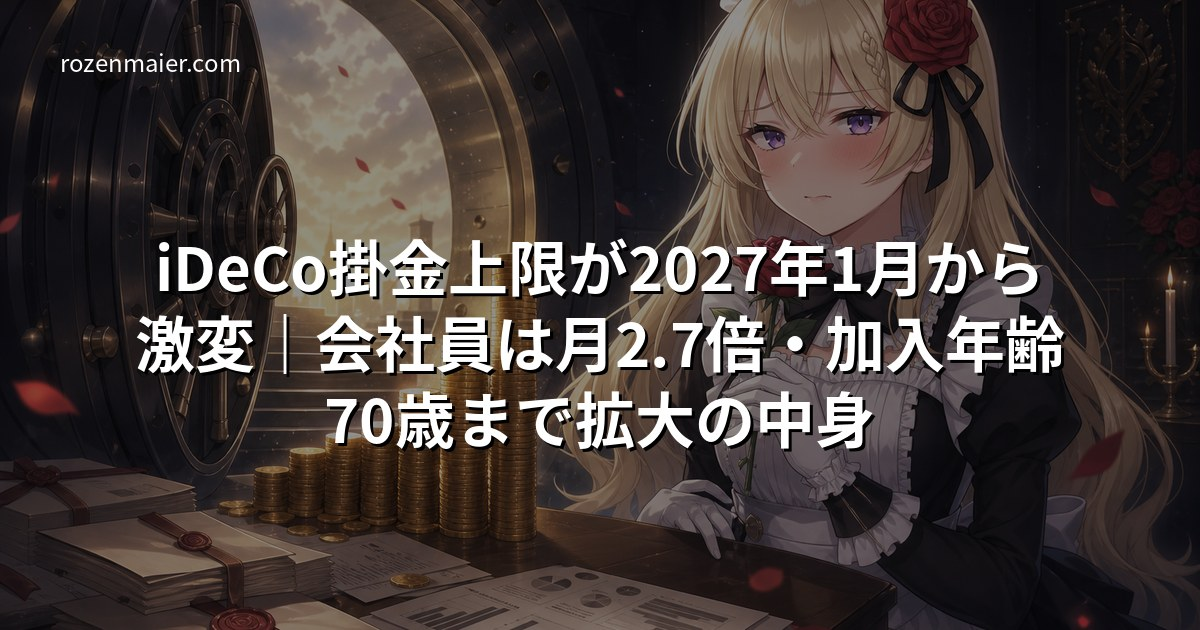
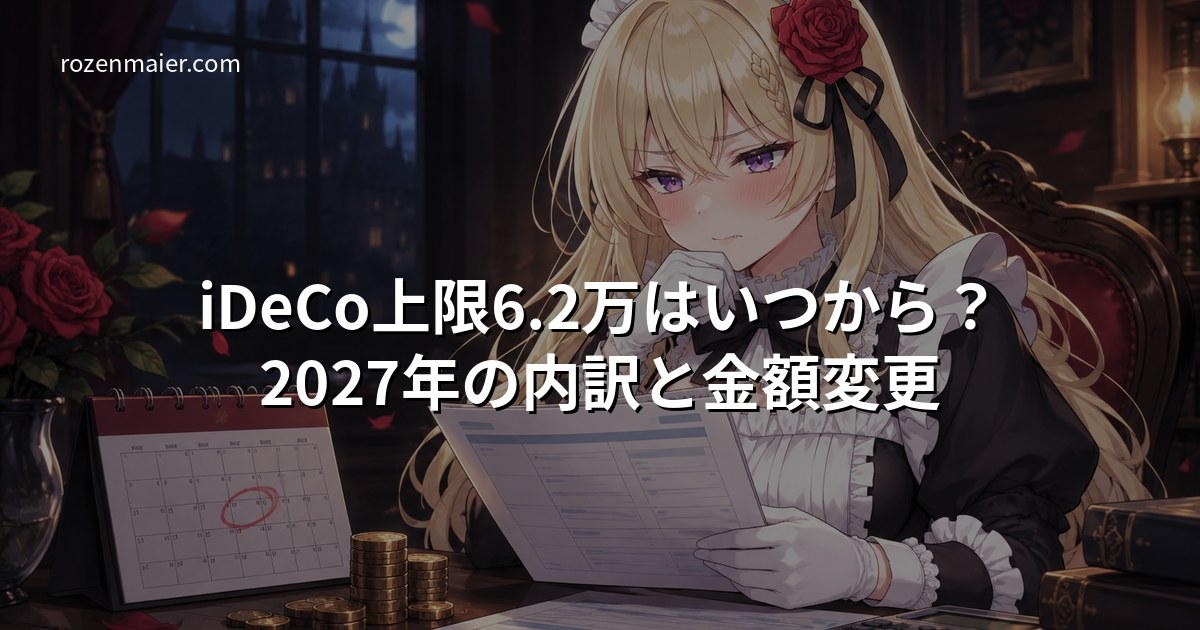
rewrite(seo): iDeCo 2027年改正記事を「いつから・6.2万の内訳・金額変更手続き」の検索意図へ作り直す
SC 46表示/5.9位/0クリック。Bingクエリは「イデコ掛け金上限改正いつから」「2027年 ideco 上限 6.2万の内訳」
「マネックス証券 ideco 2027年 金額変更」「ideco改正 2027 第3号」など、時期・内訳・手続きを求めるものだったが、
記事は制度紹介中心で答えていなかった。
- 冒頭に結論（2026/12/1施行・12月分=2027年1月引落から、自動では増えない）
- 区分別上限を厚労省リーフ・国基連案内・楽天証券表で取り直し（公務員5.4万、私学5.5万、付加年金7.4万、2万頭打ち撤廃）
- 第3号を「引き上げ予定」としていた誤りを訂正（据え置き2.3万）
- 6.2万の内訳と計算例、事前受付の4条件、e-iDeCo 12/1〜24、月別指定の扱い
- 第5号加入者の要件と2029年11月末までの経過措置、控除が2027年分になる点
- タイトル変更・サムネ再生成

diff --git a/content/posts/2026-08-18-ideco-2027-contribution-limit-reform-guide.md b/content/posts/2026-08-18-ideco-2027-contribution-limit-reform-guide.md
@@ -1,93 +1,229 @@
 ---
-title: "iDeCo掛金上限が2027年1月から激変｜会社員は月2.7倍・加入年齢70歳まで拡大の中身"
+title: "iDeCo上限6.2万はいつから？2027年の内訳と金額変更"
 date: 2026-08-18
+lastmod: 2026-10-06
 draft: false
 tags: ["iDeCo", "老後資金・FIRE"]
 categories: ["NISA・iDeCo"]
-description: "iDeCoの掛金拠出限度額が2027年1月から大きく変わります。会社員の上限が月2.3万円から6.2万円へ引き上げられる改正の中身、自営業者・専業主婦の変更点、加入可能年齢70歳までの拡大、今から準備しておくべきことを整理します。"
+description: "iDeCoの掛金上限は2026年12月分（2027年1月引き落とし分）から会社員月6.2万円・自営業者7.5万円へ。企業年金がある人の内訳の計算、第3号は据え置き、自動では上がらない金額変更の手続き（事前受付・e-iDeCo 12/1〜24）を厚労省資料で整理しますわ。"
 featureimage: "https://rozenmaier.com/img/thumbnails/2026-08-18-ideco-2027-contribution-limit-reform-guide.jpg"
 featureimagecaption: "Photo by rozenmaier.com"
 ---
 
-「iDeCoの掛金って、月2.3万円が上限でしょ？」——会社員の方からよくそう聞きますけれど、その常識、2027年1月には過去のものになりますわ。
+「iDeCoの上限が6.2万円に上がるって聞いたけれど、いつから？　何もしなくても上がるの？」——結論から申し上げますわね。
 
-国民年金基金連合会が運営する「iDeCo公式サイト」では、2026年8月17日付で「拠出限度額の見直しに伴う掛金額変更」の案内が正式に出されています。施行は2026年12月1日、実際の掛金反映は2027年1月引き落とし分からの予定です。特に会社員（企業年金なし）の上限は月2.3万円から6.2万円へと、実に約2.7倍に引き上げられます。今日はこの改正の中身と、今から準備すべきことを整理しますわ。
+- **いつから:** 2026年12月1日施行。掛金でいうと **2026年12月分（2027年1月引き落とし分）** から
+- **いくらに:** 会社員・公務員（第2号）は **月6.2万円** が上限、自営業者（第1号）は **月7.5万円**
+- **ただし6.2万円は「企業年金と合計した上限」:** 企業型DCやDBがある会社員は、そこから会社の掛金分を差し引いた額がiDeCoの枠
+- **専業主婦・主夫（第3号）は上がらない:** 月2.3万円のまま
+- **自動では増えない:** 増額したい人は自分で掛金額変更の手続きが必要
 
----
-
-## 何が変わるのか——被保険者区分ごとの上限額
-
-まず全体像を表で押さえておきましょう。
-
-| 被保険者区分 | 現行の月額上限 | 改正後の月額上限（2027年1月〜予定） |
-|---|---|---|
-| 第1号被保険者（自営業者・フリーランス） | 68,000円 | 75,000円 |
-| 第2号被保険者（会社員・企業年金なし） | 23,000円 | 62,000円 |
-| 第2号被保険者（会社員・企業年金あり） | 12,000円〜20,000円 | 「62,000円－企業年金の掛金額」 |
-| 第3号被保険者（専業主婦・主夫など） | 23,000円 | 上乗せで引き上げ予定 |
-
-インパクトが最も大きいのは、企業年金のない会社員です。現行の月23,000円（年間276,000円）から月62,000円（年間744,000円）へと、年間で約47万円も非課税で拠出できる枠が広がる計算になります。
-
-企業年金（DB・企業型DCなど）がある会社員は、「62,000円から会社の企業年金掛金額を差し引いた額」がiDeCoの上限になる見込みです。会社の掛金額によって個人差が出るため、正確な上限は勤務先の企業年金担当部署や証券会社に確認するのが確実ですわ。
-
-⚠ この情報は2026年8月17日時点でiDeCo公式サイトが公表した案内・複数の証券会社の解説をもとに整理したものです。細部は今後の正式な制度施行までに変更される可能性があるため、掛金変更の手続きを行う際は必ずご自身の加入区分に応じた最新の公式案内を確認してください。
+この記事は、厚生労働省のリーフレット「iDeCoの拠出限度額と加入可能年齢が引き上げられます。」と、国民年金基金連合会（iDeCo公式サイト）の「掛金額変更をご希望の方へ、お手続きのご案内」（2026年8月）を一次資料にして整理していますわ。
 
 ---
 
-## 加入可能年齢も70歳まで拡大
+## いつから変わる？　「2026年12月施行」と「2027年1月」の関係
 
-上限額の引き上げと同時に、iDeCoに加入できる年齢の上限も広がります。
+ニュースによって「2026年12月から」と書かれていたり「2027年1月から」と書かれていたりして、混乱しやすいところですの。両方とも正しくて、指しているものが違うだけですわ。
 
-| 項目 | 現行 | 改正後（2027年1月〜予定） |
+| 項目 | 日付 |
+|---|---|
+| 改正法の施行日 | 2026年12月1日 |
+| 新しい上限が適用される最初の掛金 | 2026年12月分 |
+| その掛金が口座から引き落とされる日 | 2027年1月（毎月26日、休日なら翌営業日） |
+| 事前受付（紙の専用届出書） | 2026年9月頃から（運営管理機関ごとに異なる） |
+| e-iDeCoでのオンライン変更 | 2026年12月1日（火）〜12月24日（木） |
+
+iDeCoの掛金は「その月の分を翌月26日に引き落とす」仕組みなので、**12月分＝1月引き落とし**になりますの。ですから「2027年1月から上限が上がる」と書いてある記事は、引き落としの月で数えているだけですわ。
+
+ひとつ実務上のポイントがあります。所得控除（小規模企業共済等掛金控除）は **実際に引き落とされた年** で計算されますの。2026年12月分の増額した掛金は2027年1月に引き落とされるので、**節税効果が出るのは2027年分の所得税・2028年度の住民税から** になりますわ。2026年の年末調整には増額分は乗りませんので、ご注意くださいまし。年末調整での書き方は[iDeCoの年末調整はここでつまずく｜控除証明書はいつ届く？令和8年分から変わる添付ルール](/posts/2026-09-12-ideco-year-end-adjustment-2026-guide/)で詳しく解説しています。
+
+---
+
+## 加入区分ごとの上限一覧（現行 → 改正後）
+
+まずは全体像ですわ。厚生労働省資料と、運営管理機関である楽天証券の制度改正ページの表で突き合わせました。
+
+| 加入区分 | 現行の月額上限 | 2026年12月分からの月額上限 |
 |---|---|---|
-| 第1号・第3号被保険者の加入上限 | 原則60歳まで（任意加入で最長65歳） | 70歳未満まで |
-| 第2号被保険者（厚生年金加入者）の加入上限 | 65歳まで | 70歳未満まで |
+| 第1号（自営業者・フリーランス・学生） | 68,000円（国民年金基金と合算） | **75,000円**（国民年金基金と合算） |
+| 第2号・企業年金なし（厚生年金のみ） | 23,000円 | **62,000円** |
+| 第2号・企業型DCやDBあり | 55,000円－会社の掛金分（最大20,000円） | **62,000円－会社の掛金分**（20,000円の頭打ちは撤廃） |
+| 第2号・国家公務員／地方公務員 | 20,000円 | **54,000円**（62,000円－共済掛金相当額8,000円） |
+| 第2号・私立学校教職員（私学共済のみ） | 20,000円 | **55,000円**（62,000円－7,000円） |
+| 第3号（会社員・公務員の被扶養配偶者） | 23,000円 | **23,000円（据え置き）** |
+| 第4号（任意加入被保険者） | 68,000円 | **75,000円** |
+| 第5号（60〜70歳未満の国民年金被保険者以外）【新設】 | ― | **62,000円**（企業年金等があれば合算で6.2万円） |
 
-改正後は被保険者の種別を問わず70歳未満まで加入できるようになり、新たに「第5号加入者」という区分が設けられる見込みです。60代でまとまった収入がある方や、定年後も再雇用で働き続ける方にとっては、非課税で積み立てられる期間そのものが5〜10年延びる計算になりますわ。iDeCoは受け取り方によって税負担が大きく変わる制度でもあるため、拠出期間が延びる今のうちに出口戦略まで見据えておくと安心です。詳しくは[iDeCo受け取り方戦略：一時金・年金・併用で税負担はここまで変わる](/posts/2026-06-16-ideco-payout-strategy-tax-optimization/)で解説していますわ。
+国民年金基金連合会の案内には、はっきりと「第3号被保険者は拠出限度額の引き上げはないので対象となりません」と書かれていますわ。この記事の旧版では第3号も「上乗せで引き上げ予定」と書いておりましたが、誤りでしたので訂正いたします。
+
+掛金は **1,000円単位**（千円未満は切り捨て）、下限は月5,000円のままです。
+
+---
+
+## 会社員の「6.2万円」の内訳——企業年金がある人はいくらまで？
+
+検索でいちばん多いのが「6.2万の内訳」「会社員はいくら積めるの？」という疑問ですわ。ポイントは、**6.2万円はiDeCo単独の上限ではなく「企業年金とiDeCoを合わせた上限」** だということ。
+
+計算式はこうなりますの。
+
+> iDeCoの上限 ＝ 62,000円 －（企業型DCの事業主掛金 ＋ DB等の他制度掛金相当額）
+> ※1,000円未満切り捨て
+
+### 計算例
+
+| ケース | 会社の掛金 | iDeCoの上限（改正後） | 現行 |
+|---|---|---|---|
+| 企業年金なし | 0円 | 62,000円 | 23,000円 |
+| 企業型DCの事業主掛金 月20,000円 | 20,000円 | 42,000円 | 20,000円 |
+| 企業型DCの事業主掛金 月35,000円 | 35,000円 | 27,000円 | 20,000円 |
+| DBの他制度掛金相当額 月15,000円＋企業型DC 月10,000円 | 25,000円 | 37,000円 | 20,000円 |
+| 国家公務員・地方公務員 | 8,000円（共済掛金相当額） | 54,000円 | 20,000円 |
+
+現行制度では、企業年金がある会社員は計算上の枠がいくら残っていても **最大20,000円** で頭打ちでしたわ。改正後はこの上限が外れるので、会社の掛金が少ない人ほど大きく枠が広がりますの。
+
+「会社員だけど2027年から毎月3万円積めますか？」という疑問には、**企業年金がない人なら積めます。企業年金がある人は、会社の掛金が月3.2万円以下なら積めます** とお答えできますわ。
+
+### 会社の掛金はどこで確認する？
+
+厚生労働省の資料では、確認先を次のように案内しています。
+
+- **企業型DCの事業主掛金** … 加入中の企業型DCの記録関連運営管理機関（RK）の加入者専用サイト
+- **DBの他制度掛金相当額** … 勤務先に確認（複数のDBに入っている場合は合算）
+- **公務員** … 共済掛金相当額は一律月8,000円
+- **私学共済** … 月7,000円
+
+ねんきん定期便には企業年金の掛金は載っていませんの。勤務先の人事・総務か、企業型DCの加入者サイトで確認するのが確実ですわ。
+
+---
+
+## 自営業者の「7.5万円」の内訳——国民年金基金・付加年金と合算
+
+第1号（自営業者・フリーランス）は68,000円から75,000円へ、7,000円の引き上げですわ。こちらも **国民年金基金や付加年金と合わせた上限** です。
+
+| 加入状況 | iDeCoの上限（改正後） |
+|---|---|
+| 国民年金基金・付加保険料のどちらも払っていない | 75,000円 |
+| 付加保険料（月400円）を納付している | 74,000円 |
+| 国民年金基金に加入している | 75,000円－国民年金基金の掛金額 |
+
+付加保険料は月400円ですが、掛金が1,000円単位なので枠は1,000円減って74,000円になりますの。地味ですが見落としやすいところですわ。
+
+会社員に比べて引き上げ幅が小さいのは、自営業者にはもともと国民年金基金など上乗せの選択肢があり、上限も高めに設定されていたからですわ。今回の改正は「企業年金のない会社員が、自営業者と比べて老後の上乗せを積みにくい」という差を縮める方向のものと読めます。
 
 ![電卓と資産運用の資料を前に考える女性のイメージ](/img/body/2026-08-18-ideco-2027-contribution-limit-reform-guide-1.jpg)
 
 ---
 
-## なぜ会社員だけこんなに大きく変わるのか
+## 専業主婦・主夫（第3号）は上限据え置き
 
-「なぜ自営業者は7,000円増なのに、会社員は3.9万円も増えるの？」と疑問に思う方もいるでしょう。
+「第3号も上がるの？」という検索も来ていますので、ここははっきり書いておきますわ。
 
-これは制度設計の歪みを是正する動きと理解すると分かりやすいですわ。もともとiDeCoの上限額は「公的年金＋企業年金でどれだけ老後保障を受けられるか」に応じて決められています。厚生年金に加えて企業年金もない会社員は、自営業者（国民年金のみ＋iDeCo68,000円）と比べて老後の保障が薄いにもかかわらず、iDeCoの上限は月23,000円と低く抑えられてきました。今回の改正は、この「企業年金のない会社員が最も冷遇されている」というアンバランスを是正する狙いがあると見られています。
+**第3号被保険者の上限は月23,000円のままです。** 国民年金基金連合会の手続き案内でも、拠出限度額の引き上げ対象は「第1号被保険者、第2号被保険者、任意加入被保険者」で、第3号は対象外と明記されています。
 
-一方、自営業者はもともと国民年金基金や小規模企業共済など他の非課税制度と合わせて年81.6万円という上限が設定されているため、今回の引き上げ幅は相対的に小さく抑えられています。
+ですから、専業主婦・主夫の方が「上限が上がるから増額の手続きを」と運営管理機関に申し込む必要はありませんの。現在の掛金額のままで問題ありませんわ。
+
+夫婦で老後資金を積みたい場合は、上限が上がる会社員側のiDeCoを厚くするか、第3号側はNISAで積むほうが現実的ですわね。所得のない第3号はiDeCoの掛金控除のメリットがそもそも無いので、手数料を払ってまでiDeCoを使う理由は薄いのですわ。
 
 ---
 
-## 今からできる3つの準備
+## 加入できる年齢は70歳未満へ——「第5号加入者」とは
 
-制度改正はまだ先ですが、今のうちに動いておくと2027年1月からスムーズに満額拠出へ移行できます。
+上限と同時に、加入可能年齢も2026年12月から引き上げられますわ。
 
-1. **自分の加入区分と現在の掛金額を確認する** — ねんきん定期便や勤務先の総務・人事に、企業年金の有無と掛金額を確認しておきましょう。改正後の自分の上限額を事前に把握できます。
-2. **家計のキャッシュフローを見直す** — 上限まで拠出すると所得控除は増えますが、その分手取りの現金は減ります。生活防衛資金（生活費6か月分目安）を確保した上で、無理のない金額から段階的に増額するのが安全です。
-3. **NISAとの役割分担を再確認する** — iDeCoは60歳（改正後は加入年齢に応じてさらに先）まで引き出せない「老後専用」の資金です。教育費・住宅費など途中で引き出す可能性がある資金はNISA側に、老後まで確実に触らない資金はiDeCo側に振り分けるのが基本の考え方です。NISAとiDeCoの併用戦略については[新NISA×iDeCo併用で非課税メリットを最大化する組み合わせ方](/posts/2026-06-23-nisa-ideco-combination-max-strategy/)で詳しく整理していますので、あわせてご覧くださいませ。
+| 項目 | 現行 | 2026年12月から |
+|---|---|---|
+| 掛金を出せる年齢 | 原則60歳未満（会社員・任意加入被保険者は65歳未満） | **70歳未満** |
+| 新しい区分 | ― | **第5号加入者**（60歳以上70歳未満の国民年金被保険者以外の人） |
+
+ただし、60歳を過ぎれば誰でも入れるわけではありませんの。厚生労働省の資料にある第5号加入者の要件は次のとおりですわ。
+
+1. 次のどれかに当てはまること
+   - iDeCoの加入者だった
+   - iDeCoの運用指図者（掛金は止めて運用だけ続けている人）
+   - 企業年金からiDeCoに資産を移す人
+2. 老齢基礎年金やiDeCoの老齢給付金を **まだ受け取っていない**
+3. マッチング拠出をしていない など
+
+つまり **「すでにiDeCoを持っていて、年金もiDeCoもまだ受け取っていない人」が70歳まで積み増せる** 仕組みですわ。老齢基礎年金を繰り下げて老齢厚生年金だけ受け取っている人は加入できます。一方、施行日までに老齢基礎年金やiDeCoの老齢給付金を受け取ってしまった人は加入できませんの。
+
+なお、経過措置として **2029年11月末までは、上の1に当てはまらない人も加入できる** と厚生労働省資料に注記がありますわ。
+
+拠出できる期間が延びると、受け取り時の退職所得控除の計算や、一時金と年金の配分も変わってきます。出口まで見据えたい方は[iDeCo受け取り方はどれが一番お得？一時金・年金・併用の判定表【2026年】](/posts/2026-06-16-ideco-payout-strategy-tax-optimization/)もあわせてどうぞ。
+
+---
+
+## 金額変更の手続き——何もしなければ掛金は上がらない
+
+ここがいちばん大事なところですわ。**上限が上がっても、あなたの掛金が自動で増えることはありません。** 増額したい人は自分で手続きが必要ですの。
+
+国民年金基金連合会が案内している方法は2つです。
+
+### 方法1：事前受付（紙の専用届出書）
+
+2026年12月分から増額したい人向けに、**2026年9月頃から** 運営管理機関（証券会社・銀行）で事前受付が始まっていますわ。対象になるのは、次の4つをすべて満たす人です。
+
+1. 上限が引き上げられる区分の人（第1号・第2号・任意加入被保険者）
+2. 改正前の上限を超える額へ掛金を引き上げる人
+3. 2026年12月分（2027年1月引き落とし）から変更する人
+4. 現在の掛金の納め方が **毎月定額** の人
+
+専用の届出書は各運営管理機関から取り寄せて、運営管理機関に提出しますの。氏名・住所の変更や、企業年金の加入状況コードの変更を一緒にしたい場合は、専用届出書ではなく通常の届出書を使う決まりですわ。
+
+### 方法2：e-iDeCo（オンライン手続き）
+
+e-iDeCoに対応している運営管理機関なら、**2026年12月1日（火）〜12月24日（木）** にオンラインで掛金額を変更できますわ。ただし、ほかの手続きと重なると12月分に間に合わず、2027年1月分以降の反映になる場合があると案内されています。12月分から確実に増やしたいなら、早めに済ませるか、方法1の事前受付を使うのが安全ですわね。
+
+### 証券会社ごとの窓口
+
+手続きの窓口は、iDeCoを申し込んだ **運営管理機関** ですわ。マネックス証券は2026年9月1日付で「2026年12月iDeCo制度改正に伴う掛金変更事前申込み受付開始」のお知らせを出していますし、SBI証券・楽天証券も制度改正の案内ページを設けています。届出書の入手方法やe-iDeCo対応の有無は会社ごとに違いますので、ご自分の口座のある会社のiDeCoページで確認してくださいまし。
+
+### 月別指定（年単位拠出）の人は
+
+ボーナス月にまとめて出すなど、**月別指定（年単位拠出）** にしている人は事前受付の対象外ですの。引き上げ後の扱いは、加入している運営管理機関に直接問い合わせるよう案内されていますわ。
 
 ![スマートフォンで資産運用アプリを確認する会社員のイメージ](/img/body/2026-08-18-ideco-2027-contribution-limit-reform-guide-2.jpg)
 
 ---
 
-## 掛金変更の手続きはいつから？
+## 上限まで増やすと節税額はいくら変わる？
 
-iDeCo公式サイトでは、この改正に合わせた掛金額変更の手続き案内資料として「2026年12月施行 iDeCo掛金額変更手続きのご案内」と、経過措置に関する案内資料が公開されています。掛金額の変更は通常、加入している運営管理機関（証券会社・銀行など）を通じて「加入者掛金額変更届」を提出する形になります。手続き方法や必要書類は金融機関ごとに異なるため、増額を検討している方は、施行が近づいたタイミングで自分の証券会社のiDeCo担当窓口に確認しておくと安心ですわ。
+企業年金のない会社員が、上限まで積んだ場合で比べてみますわ。所得税率20%・住民税10%の人を想定し、復興特別所得税は省いています。
+
+| | 現行（月23,000円） | 改正後（月62,000円） |
+|---|---|---|
+| 年間の掛金 | 276,000円 | 744,000円 |
+| 所得税の軽減（20%） | 55,200円 | 148,800円 |
+| 住民税の軽減（10%） | 27,600円 | 74,400円 |
+| 年間の節税額 合計 | 82,800円 | 223,200円 |
+
+年間で約14万円、節税額が増える計算ですわ。所得税率10%の人なら、節税額は現行55,200円 → 改正後148,800円になります。
+
+ただし、節税額の大きさだけで決めないでくださいまし。掛金を増やした分、**手取りの現金は年間46.8万円減ります**。そしてiDeCoのお金は原則60歳まで引き出せませんの。
 
 ---
 
-## まとめ：iDeCo改正で押さえるべき3つのポイント
+## 増額する前に確認しておきたい3つのこと
 
-1. **会社員（企業年金なし）の上限は月23,000円→62,000円へ約2.7倍に拡大**（2027年1月拠出分〜予定）
-2. **加入可能年齢が70歳未満まで拡大**——60代からでも非課税積立を続けられる期間が延びる
-3. **制度の細部は今後変更の可能性あり**——大きな判断をする前に必ずiDeCo公式サイト・加入している金融機関の最新情報を確認すること
+1. **生活防衛資金が残るか** — 生活費の6か月分程度を現金で持ったうえで、余る分だけを回すのが基本ですわ。上限いっぱいにすること自体を目的にしないこと。
+2. **NISAとの分担** — 教育費や住宅資金のように途中で使うかもしれないお金はNISA、老後まで触らないお金はiDeCo、と役割を分けるのが定石です。併用の組み立ては[新NISA×iDeCo 節税最大化の組み合わせ戦略2026年版](/posts/2026-06-23-nisa-ideco-combination-max-strategy/)で整理していますわ。
+3. **自分の上限を数字で把握したか** — 企業年金がある人は、会社の掛金を確認するまで正確な上限は出ません。勘で6.2万円の届出を出すと、上限超過で受け付けられないこともありますの。
 
-拠出限度額の引き上げは、老後資金づくりの選択肢が広がる好材料です。ただし上限まで拠出することが目的化してしまうと家計を圧迫しかねません。まずは自分の加入区分と改正後の上限額を正確に把握し、無理のない範囲で計画的に増額していくのが賢い付き合い方ですわね。
+---
+
+## まとめ：iDeCo上限引き上げで押さえる5つのこと
+
+1. **いつから:** 2026年12月1日施行、**2026年12月分（2027年1月引き落とし分）** の掛金から
+2. **いくら:** 会社員・公務員は企業年金と合計で **月6.2万円**、自営業者は国民年金基金と合計で **月7.5万円**
+3. **内訳:** 企業年金がある会社員は「62,000円－会社の掛金」。現行の2万円の頭打ちは撤廃
+4. **第3号は据え置き:** 専業主婦・主夫は月2.3万円のまま
+5. **手続きが必要:** 増額は自動ではない。事前受付（2026年9月頃〜）か、e-iDeCo（12月1日〜24日）で変更
+
+上限が上がるのは、老後資金の選択肢が広がる良い知らせですわ。べ、別に急かすつもりはありませんけれど、12月分から増やしたいなら手続きの期限は思ったより早くてよ。まずはご自分の区分と会社の掛金を確認するところから始めてくださいまし🌹
 
 ## 関連記事
 
 - [新NISA・iDeCo完全攻略特集｜制度活用から出口戦略まで](/features/nisa-ideco-guide/)
-
-
-※本記事は情報提供を目的としたものであり、投資助言ではありません。投資判断・掛金変更の手続きはご自身の責任で行ってください。制度内容は2026年8月17日時点の公表情報に基づいており、今後の法案審議・正式施行内容により変更される可能性があります。
+- [iDeCoの年末調整はここでつまずく｜控除証明書はいつ届く？令和8年分から変わる添付ルール](/posts/2026-09-12-ideco-year-end-adjustment-2026-guide/)
+- [iDeCo受け取り方はどれが一番お得？一時金・年金・併用の判定表【2026年】](/posts/2026-06-16-ideco-payout-strategy-tax-optimization/)
+- [新NISA×iDeCo 節税最大化の組み合わせ戦略2026年版](/posts/2026-06-23-nisa-ideco-combination-max-strategy/)
